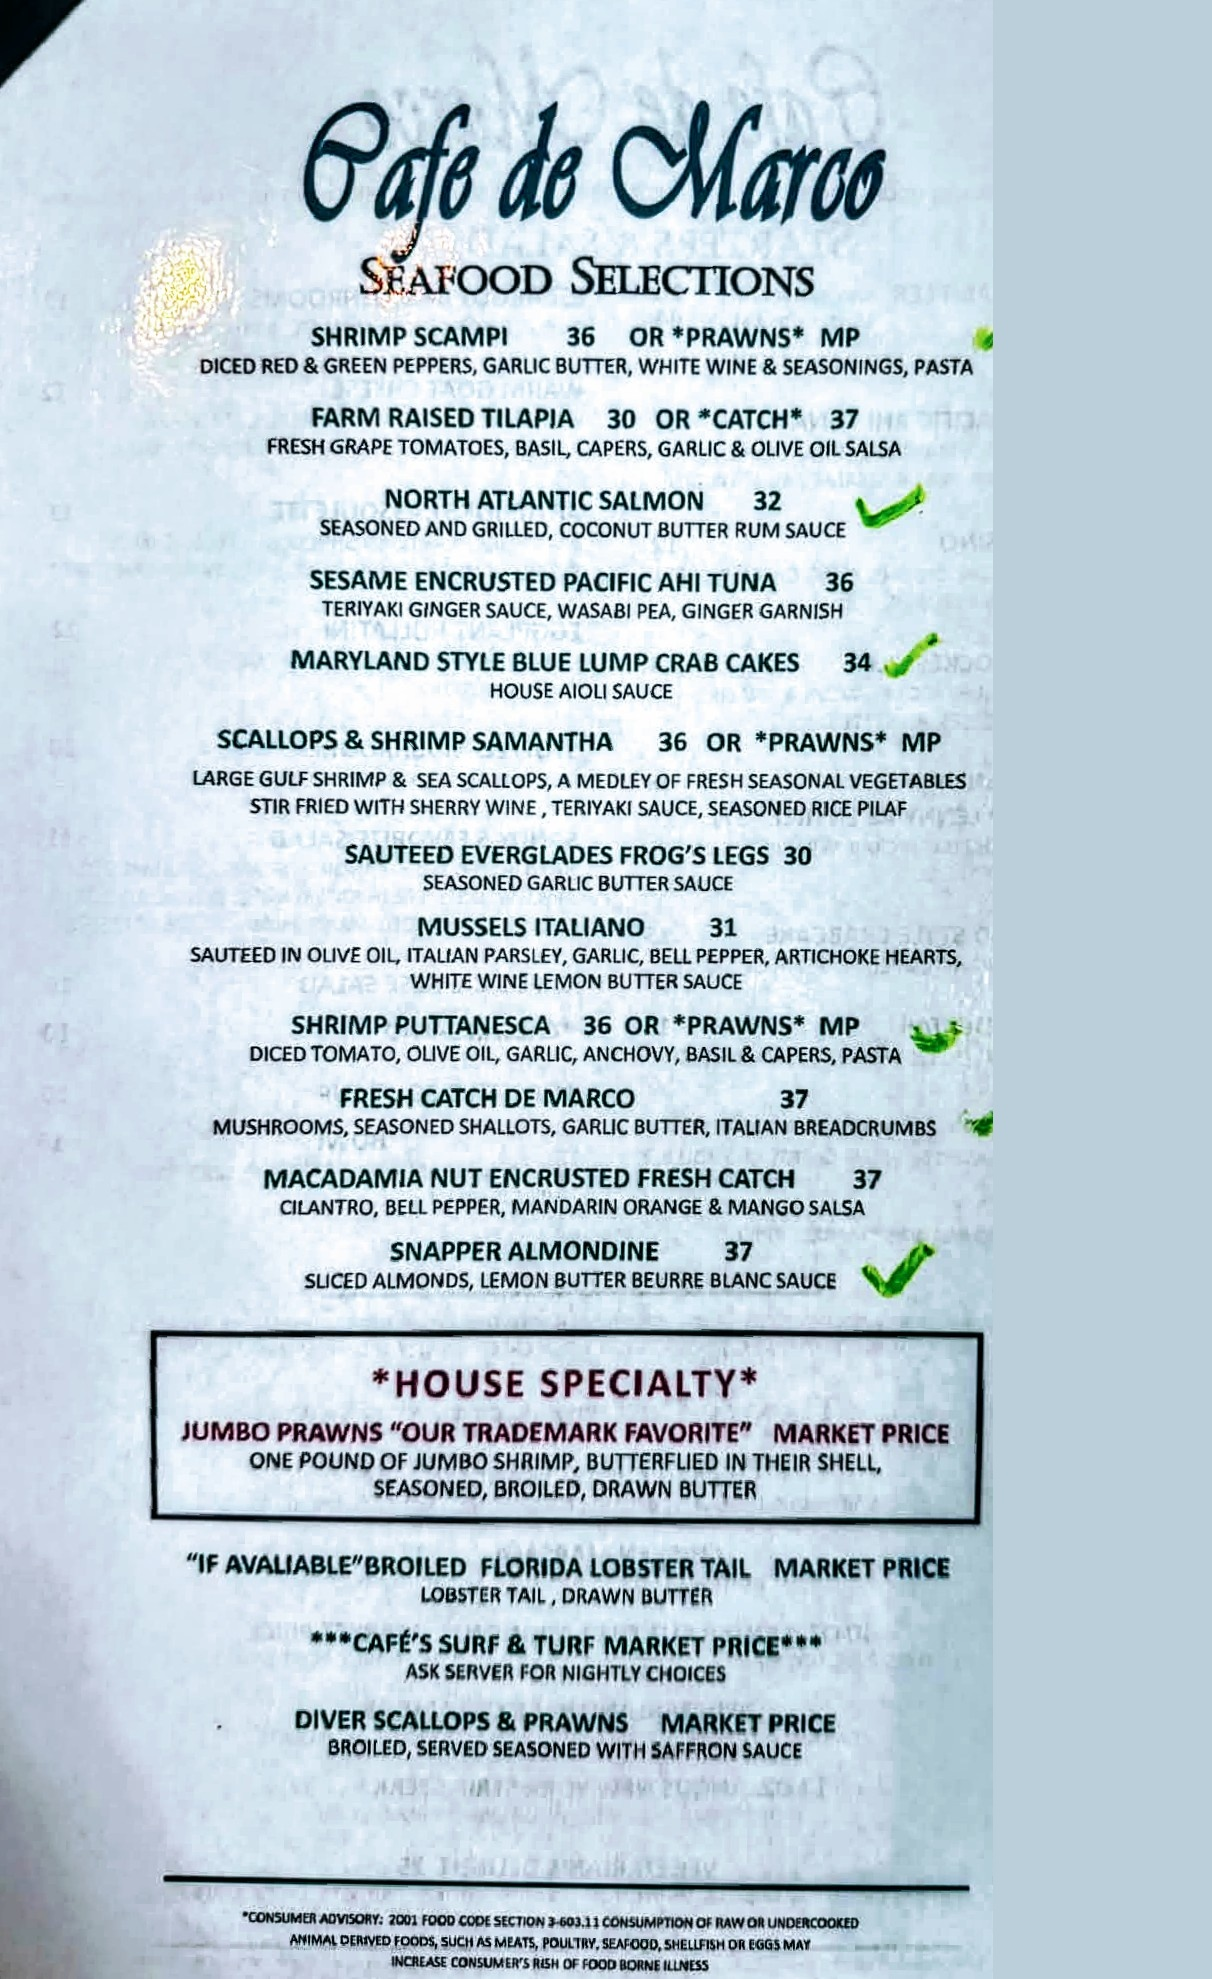
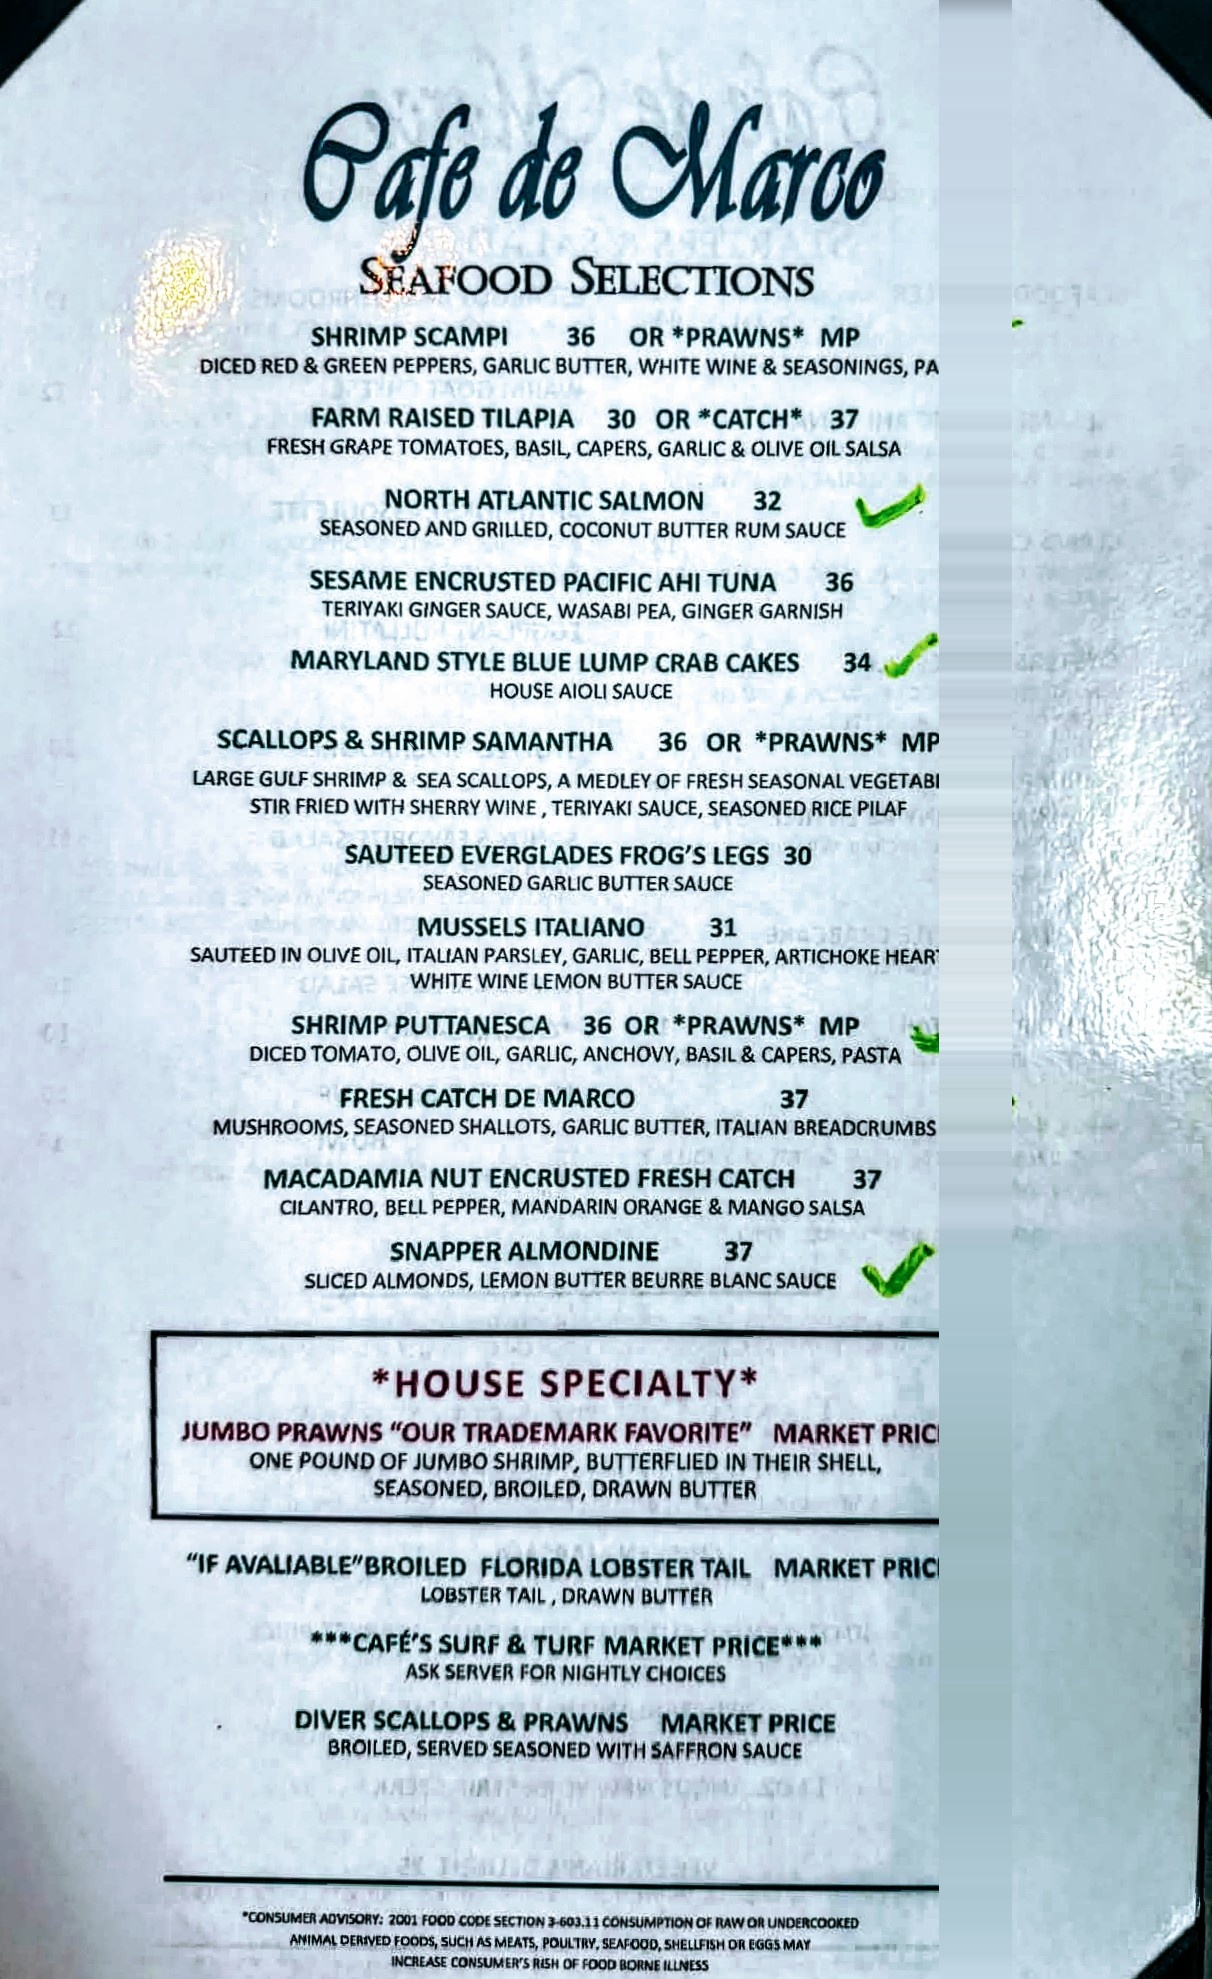
Correctly and seamlessly redact prices from the menu image, leaving right margin intact

diff --git a/redact_correctly.py b/redact_correctly.py
@@ -1,0 +1,54 @@
+import os
+from PIL import Image
+
+image_path = r"C:\Users\phill\.gemini\antigravity\scratch\cafe-de-marco-website\public\images\Messenger_creation_DD8FD49C-7B7B-4150-BB43-19790310C933~2.jpeg"
+output_path = r"C:\Users\phill\.gemini\antigravity\scratch\cafe-de-marco-website\public\images\menu_redacted_1.jpg"
+
+print(f"Loading original menu image: {os.path.basename(image_path)}")
+try:
+    with Image.open(image_path) as img:
+        img_rgb = img.convert('RGB')
+        w, h = img_rgb.size
+        print(f"Dimensions: {w}x{h}")
+        
+        # Define the sample range (clean right margin where there are no prices or text)
+        sample_x_start = int(w * 0.85)
+        sample_x_end = int(w * 0.92)
+        
+        # Define the redact range (the column of prices)
+        redact_x_start = int(w * 0.775)
+        redact_x_end = int(w * 0.835)
+        
+        print(f"Redacting row-by-row from x={redact_x_start} to x={redact_x_end} (sampling from x={sample_x_start} to x={sample_x_end})")
+        
+        pixels = img_rgb.load()
+        
+        # Redact row-by-row to perfectly match any lighting gradient/shadow on the paper
+        for y in range(h):
+            # Sample background pixels in this specific row
+            row_samples = []
+            for x in range(sample_x_start, sample_x_end):
+                row_samples.append(img_rgb.getpixel((x, y)))
+            
+            # Compute average color for this specific row
+            avg_r = int(sum(p[0] for p in row_samples) / len(row_samples))
+            avg_g = int(sum(p[1] for p in row_samples) / len(row_samples))
+            avg_b = int(sum(p[2] for p in row_samples) / len(row_samples))
+            row_bg_color = (avg_r, avg_g, avg_b)
+            
+            # Apply row background color to the redact range in this row
+            for x in range(redact_x_start, redact_x_end):
+                pixels[x, y] = row_bg_color
+                
+        # Save the redacted image
+        img_rgb.save(output_path, "JPEG", quality=95)
+        print(f"Successfully saved seamless row-by-row redaction as: {os.path.basename(output_path)}")
+        
+        # Also copy it to dist/images if the build folder exists
+        dist_path = r"C:\Users\phill\.gemini\antigravity\scratch\cafe-de-marco-website\dist\images\menu_redacted_1.jpg"
+        if os.path.exists(os.path.dirname(dist_path)):
+            img_rgb.save(dist_path, "JPEG", quality=95)
+            print("Successfully copied redacted image to dist/images/")
+            
+except Exception as e:
+    print(f"Error during redaction: {e}")
